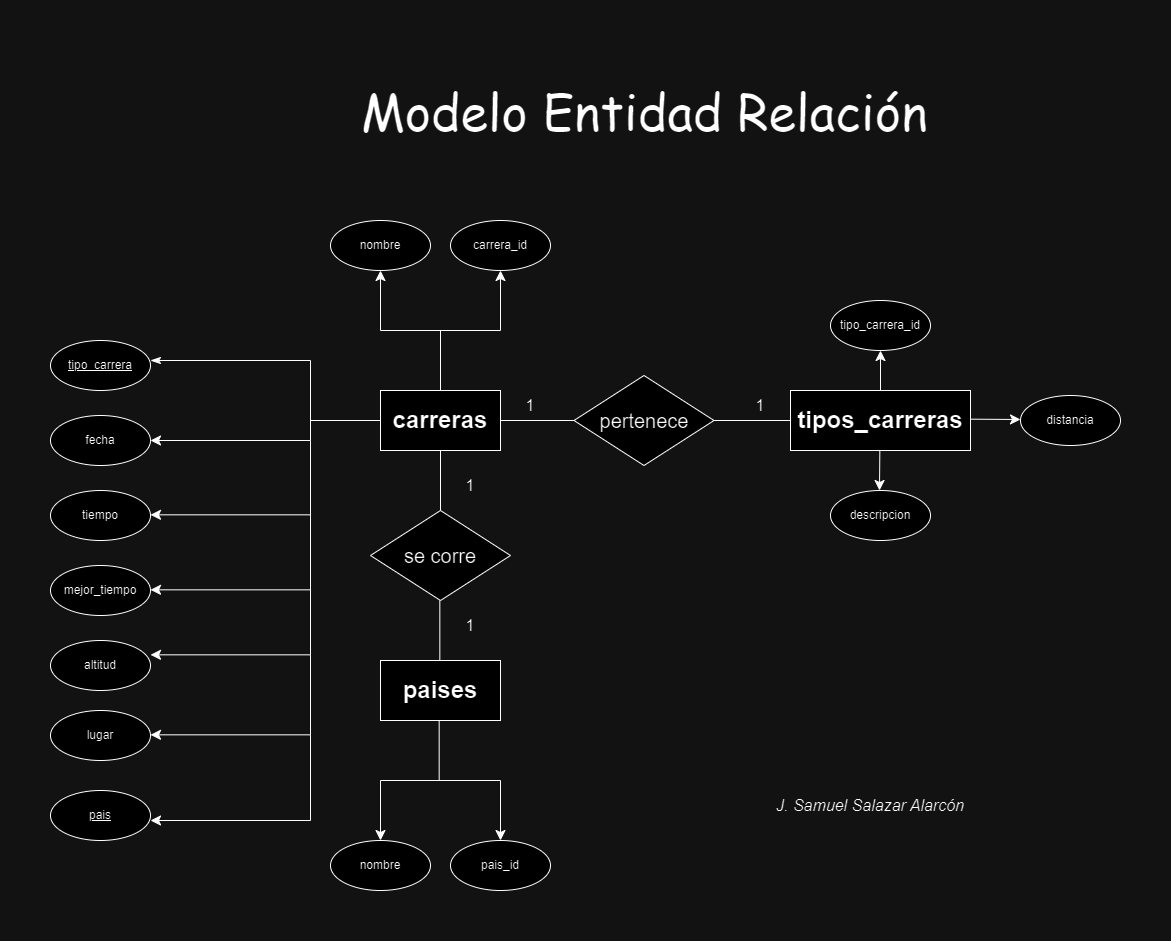
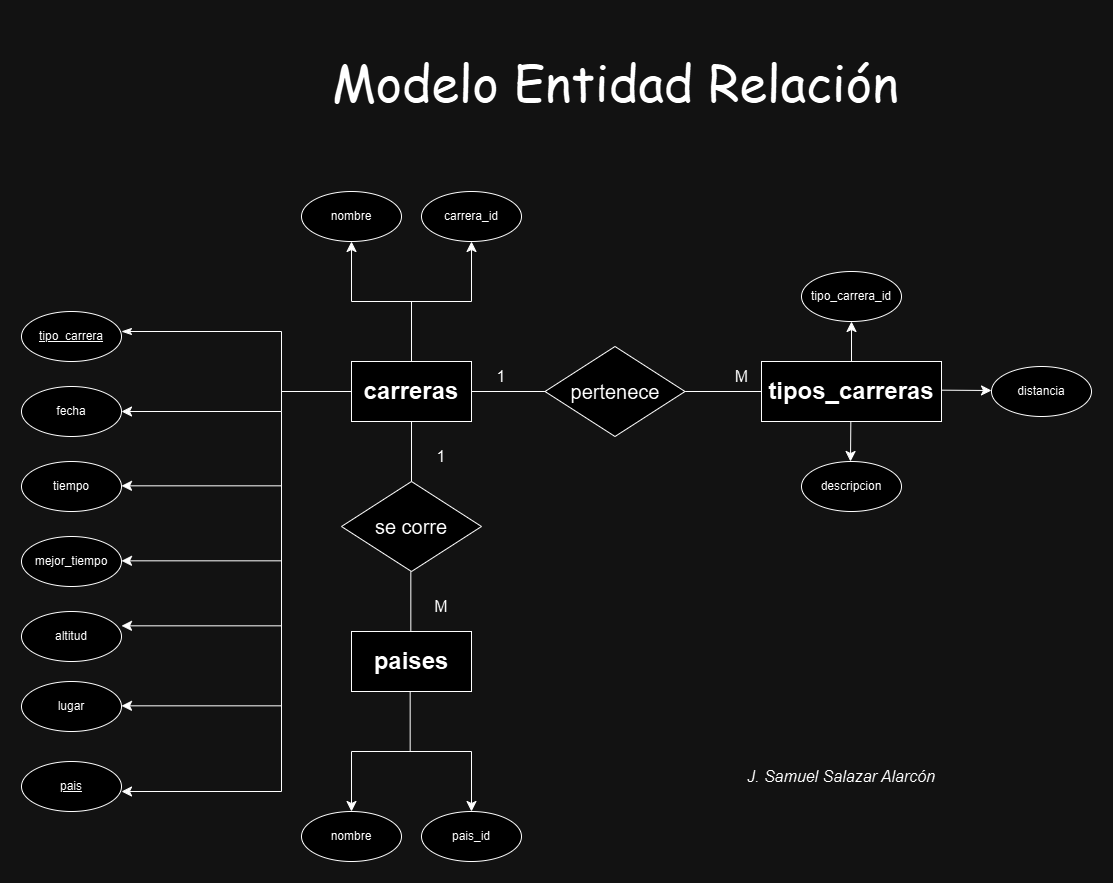
Corrigiendo las relaciones

diff --git a/Carreras_LogicaNegocio.md b/Carreras_LogicaNegocio.md
@@ -40,8 +40,8 @@
 
 ## Relaciones
 
-1. Una **carrera** _Pertenece_ a un tipo de carrera. (1 a 1)
-1. Una **carrera** se _corre_ en un pais. (1 a 1)
+1. Una **carrera** _Pertenece_ a un tipo de carrera. (1 a M)
+1. Una **carrera** se _corre_ en un pais. (1 a M)
 
 ## Diagramas
 
